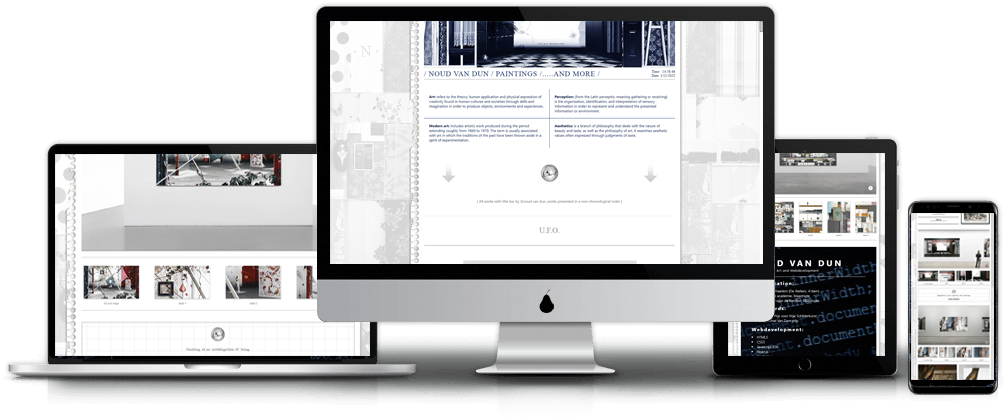
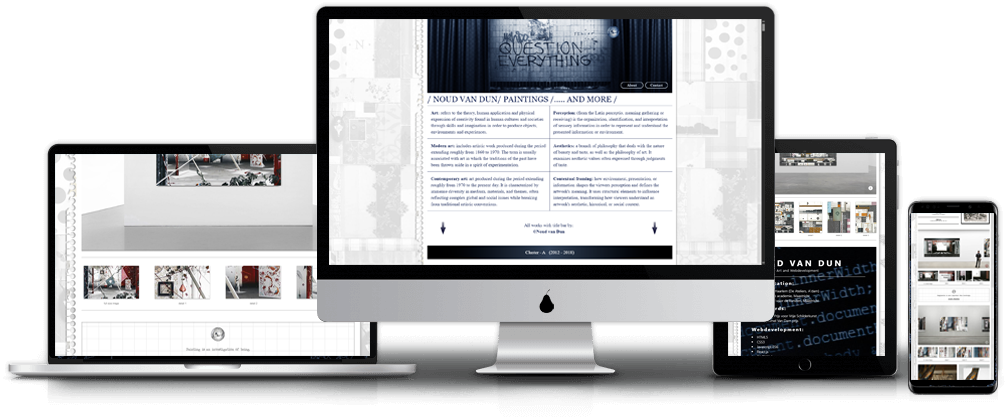
*

diff --git a/src/ProjectsList.js b/src/ProjectsList.js
@@ -370,7 +370,7 @@ export const projectsList = [
     ],
     github: "https://github.com/Noud63/noudvandun",
     github2: "https://www.noudvandun.nl",
-    description: "My own personal Web App is all about contemporary art and more.",
+    description: "My own personal Web App is all about contemporary art and more.\n Build with React/Vite and Tailwind",
   },
   {
     id: 16,
